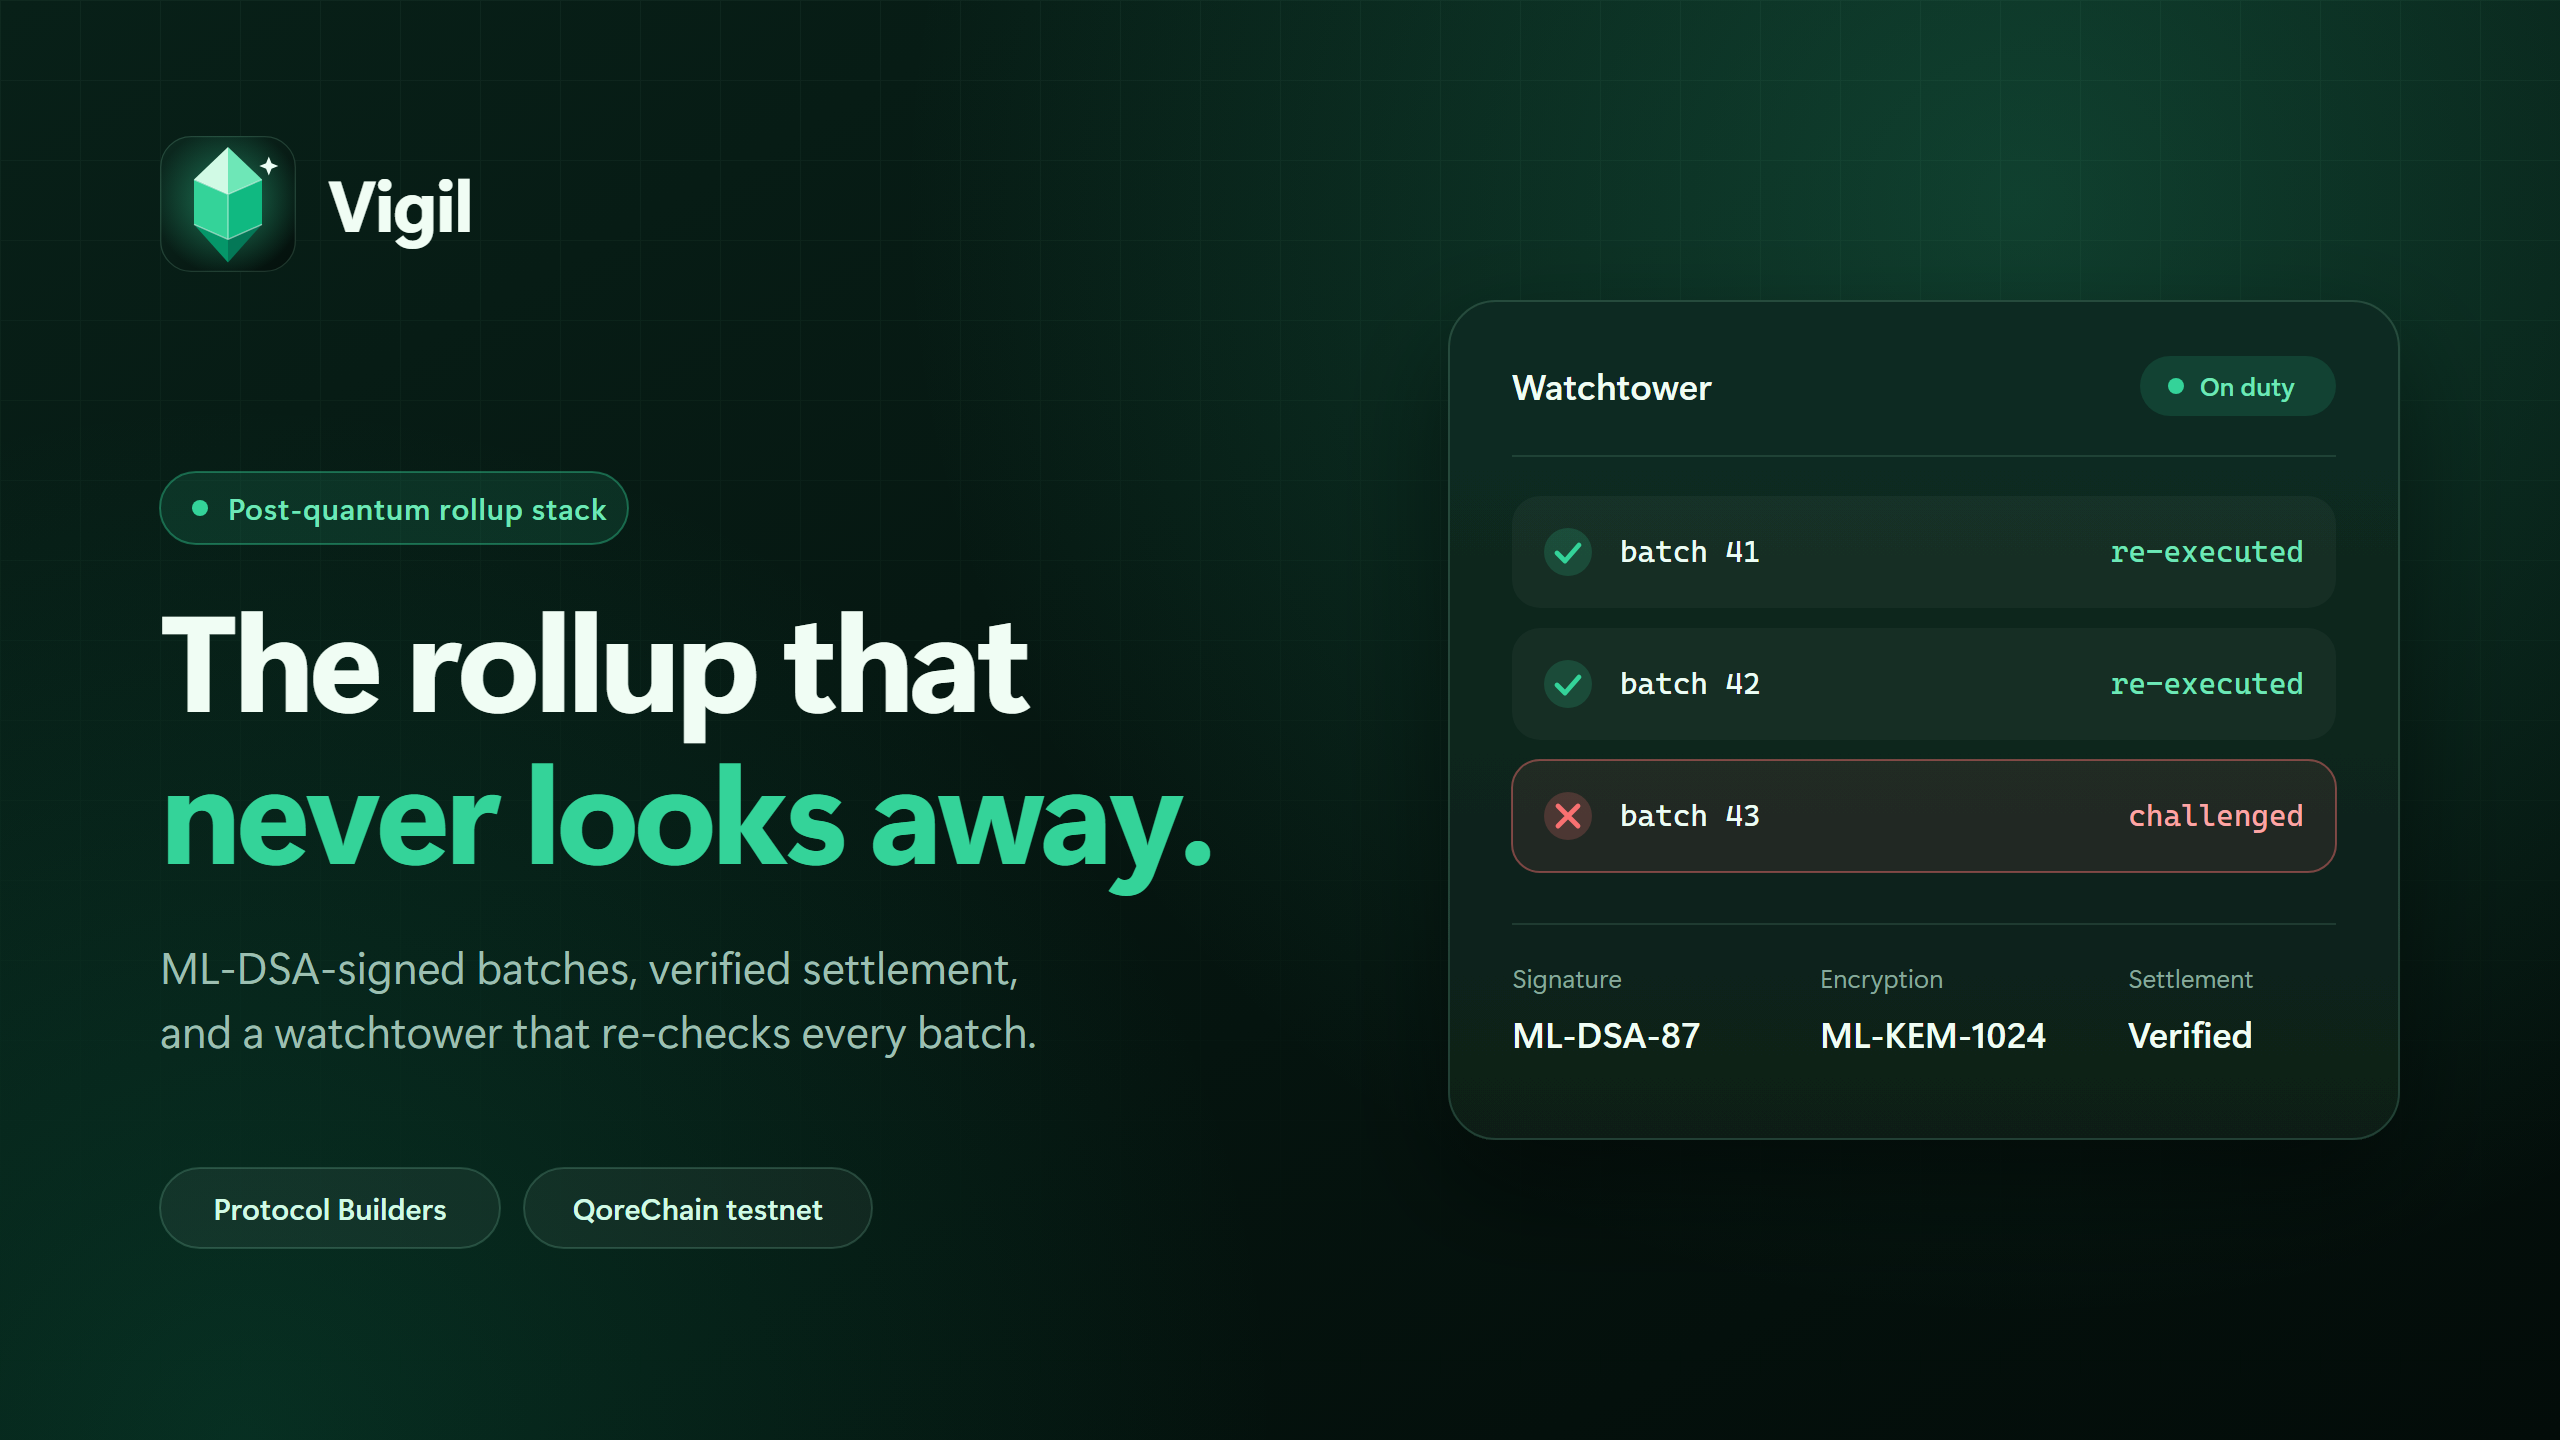
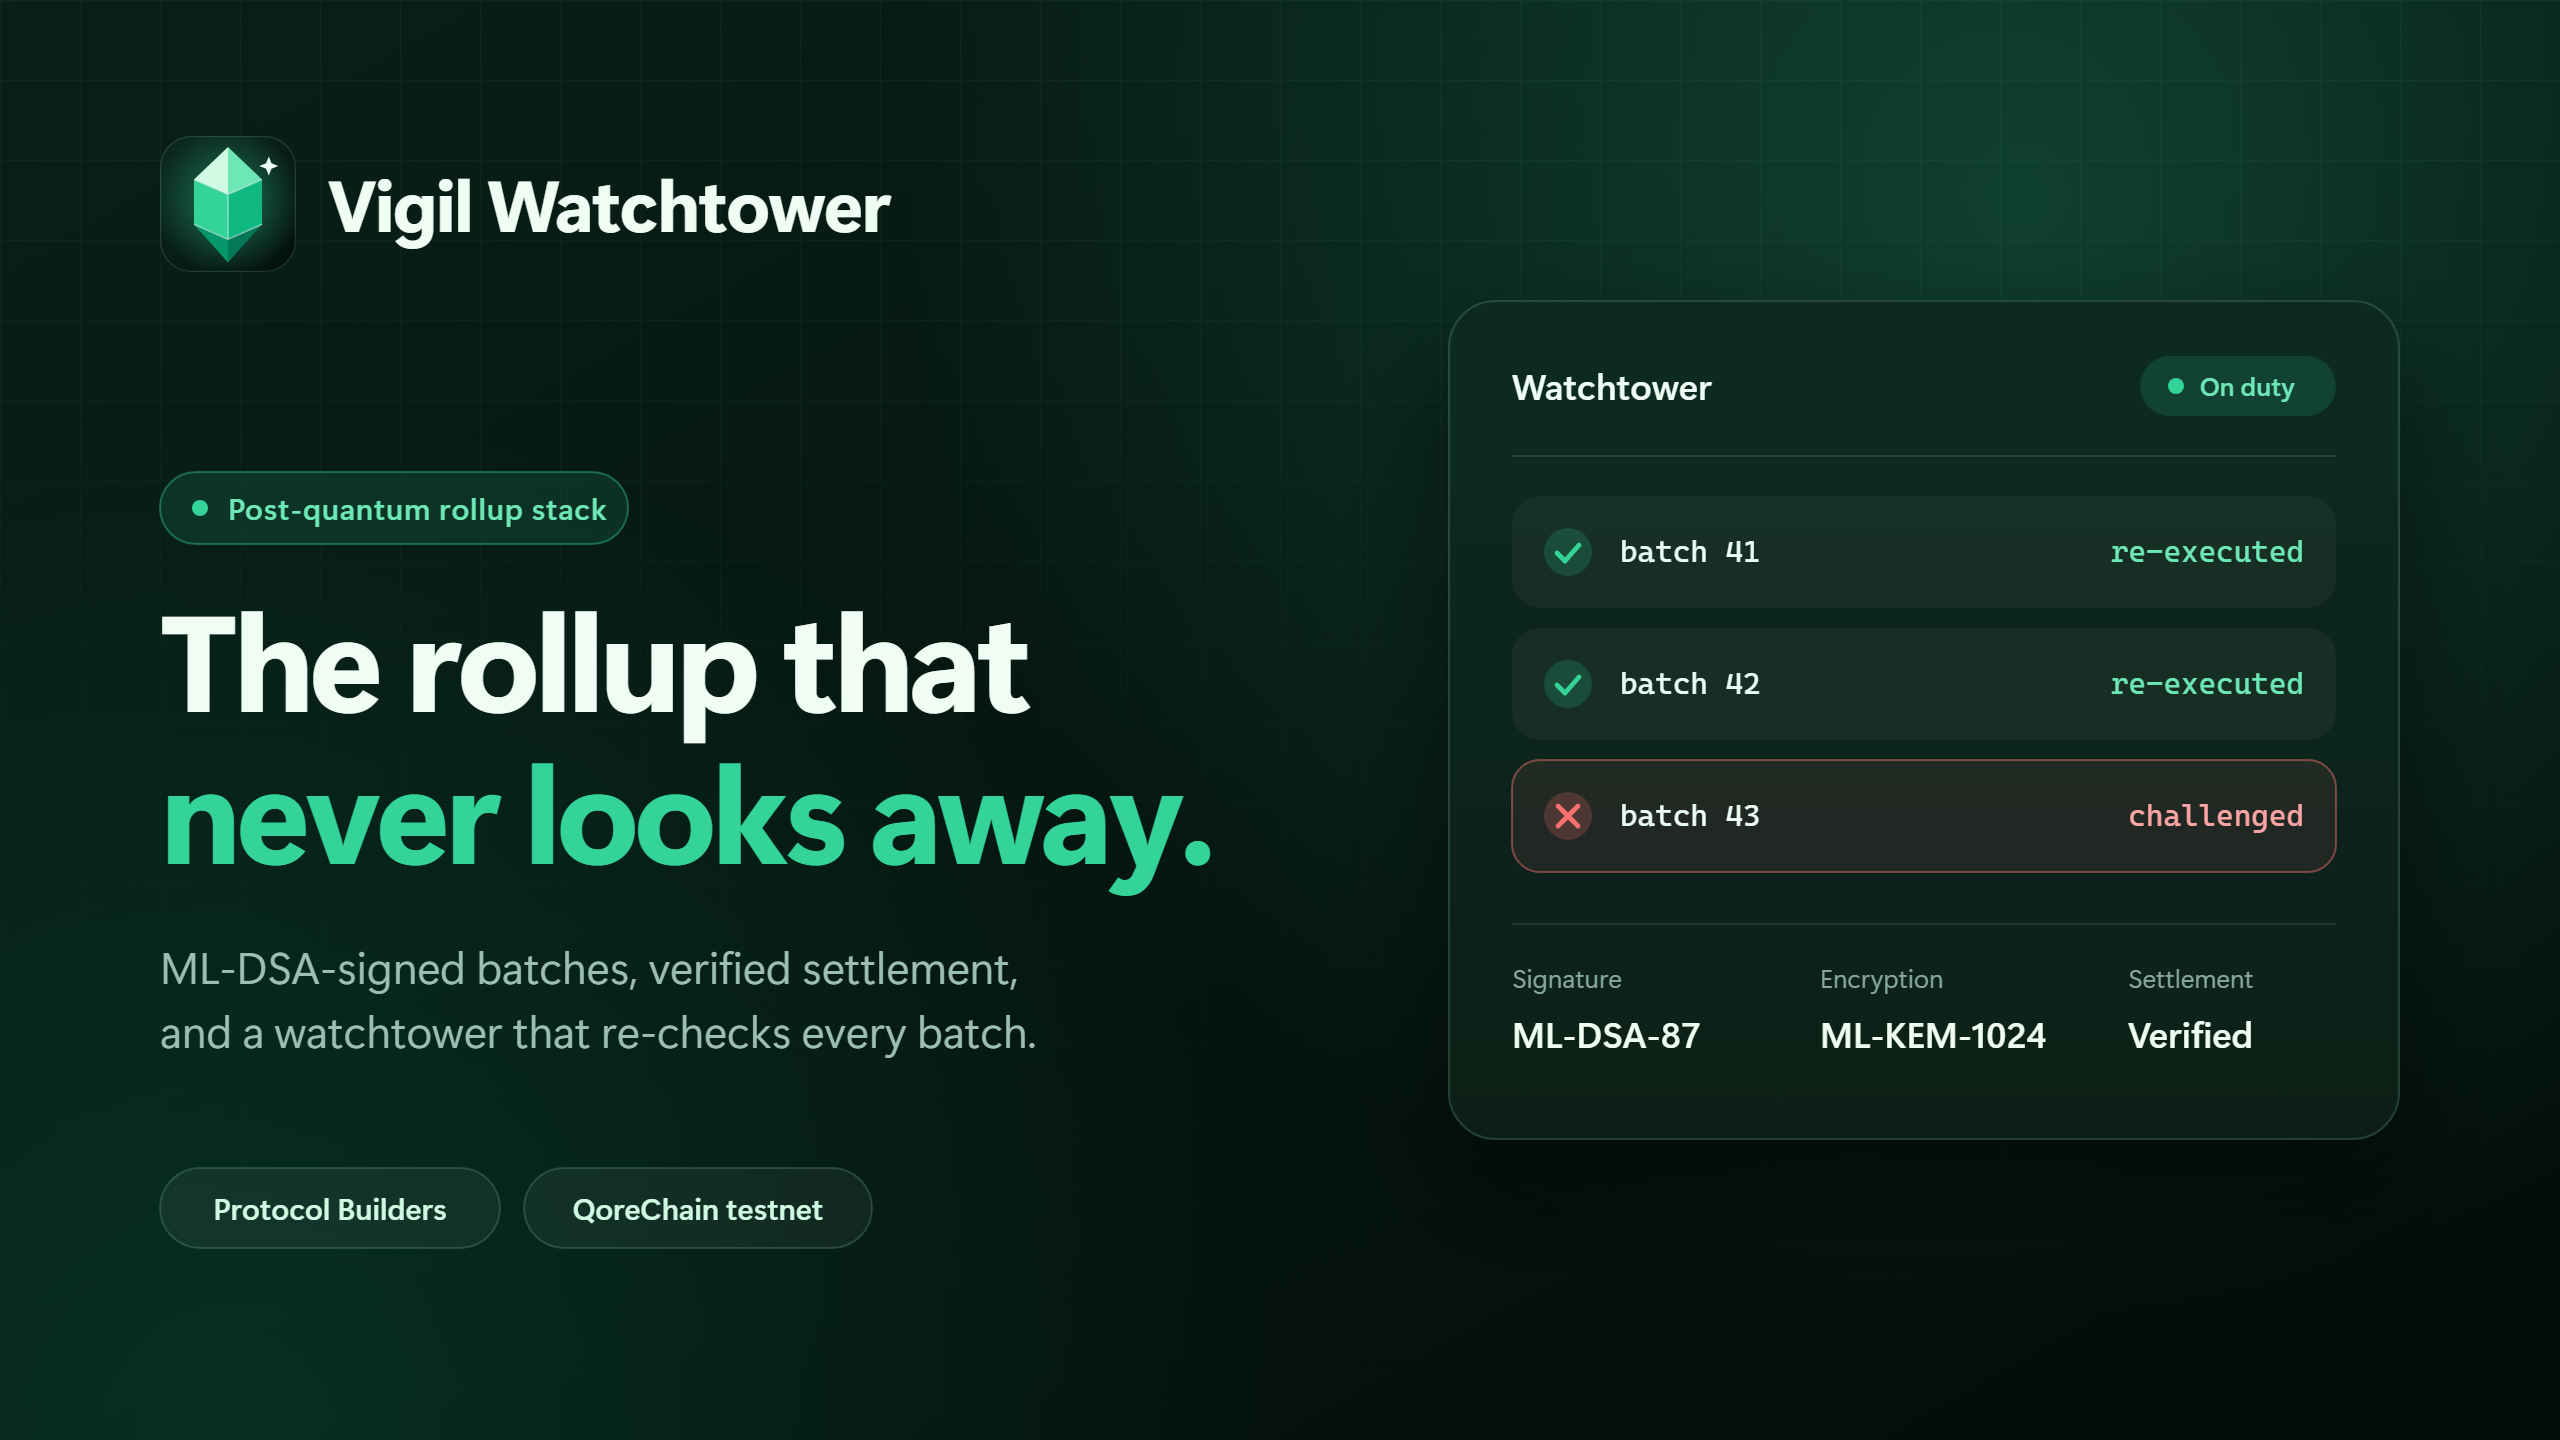
chore: re-export the brand PNGs and update the demo scenes
cover.png and logo.png still showed the old name; both are exported
again from their SVGs. The demo scene list now shows the audit of other
rollups, SettlementGate and the IBC exit, and the use cases, sends one
transfer instead of two, and stays under three minutes. Audit cards carry
their status as a class, and the use-cases page names the right memo
amount. The judges page has the current test counts.

Changed region(s): [[0.1875, 0.125, 0.3438, 0.1875]]

diff --git a/apps/web/learn.js b/apps/web/learn.js
@@ -198,7 +198,7 @@ export function learnView({ el, pill, latestBatch }) {
           "Payments with a private note",
           "people paying each other on the rollup who need to say what a payment is for",
           "A transfer can carry a memo sealed with ML-KEM-1024 to the key the recipient published on QoreChain, and bound to that transfer. Amounts stay public; the note is readable only by the recipient, now and after quantum computers arrive.",
-          "a recipient key, a sealed memo bound to a 1.5 QOR transfer, and the red-team replay refusing a changed or moved memo.",
+          "a recipient key, a sealed memo bound to a 0.25 QOR transfer, and the red-team replay refusing a changed or moved memo.",
         ),
         useCase(
           "A watchtower for rollups you do not run",

diff --git a/apps/web/rollups.js b/apps/web/rollups.js
@@ -28,7 +28,7 @@ export function rollupsView({ el, pill, api, ago, short }) {
 
   const row = (audit) => {
     const [tone, label] = STATUS[audit.status] ?? ["plain", audit.status];
-    return el("article", { className: "proof-card" }, [
+    return el("article", { className: `proof-card status-${audit.status}` }, [
       el("div", { className: "proof-top" }, [pill(tone, label)]),
       el("h2", { className: "mono", text: audit.rollupId }),
       el("p", {

diff --git a/docs/JUDGES.md b/docs/JUDGES.md
@@ -57,19 +57,29 @@ encodings. Vigil adds:
 - Private memos bound to transfers.
 - A monitor of QoreChain itself, which found mainnet's block time at 4.78 s against a documented
   3.1 s.
-- A web app and operator console.
+- A web app and operator console, with Sign In With QoreChain (ML-DSA-87 checked against the
+  registered key).
+- A read-only audit of every other `qledger-v1` rollup on the network, which proved that
+  `wicketgate-pay` batch 12 paid out 13 QOR on a forged withdrawals root.
+- Receipt recording through a smart account whose key can call only the two record functions, with
+  a scoped EVM window as the fallback.
+- `SettlementGate`, an example contract that pays only after a batch has settled.
+- One-command checks from a fresh clone with no key: `verify:proof`, `metrics`, `redteam`.
 
 ## Quality
 
-- 159 TypeScript tests and 19 contract tests, including a golden test that replays a live rollup's
-  public data and reproduces the state roots the chain finalized.
-- A 134-check browser test of the web app in light and dark themes and at phone width, including a
-  real transfer.
+- 230 TypeScript tests, 19 contract tests and 10 tests of the SettlementGate example (2 of them
+  against the real `VigilReceipts` on a testnet fork), including a golden test that replays a live
+  rollup's public data and reproduces the state roots the chain finalized.
+- A 170-check browser test of the web app in light and dark themes and at phone width, including
+  Sign In With QoreChain through the browser.
+- `pnpm redteam`: ten attacks on live data, each refused by a named check with a passing control.
 - Two independent reviews (contract and services). Their findings are fixed or documented in the
   [threat model](THREAT_MODEL.md).
 
 ## Videos
 
-- `media/vigil-demo.mp4`: the demo, 2.5 minutes, with real testnet transactions and the fraud catch.
+- `media/vigil-demo.mp4`: the demo, 2 minutes 48 seconds, with a real testnet transfer, the fraud
+  catch, the audit of other rollups, SettlementGate and the IBC exit.
 - `media/vigil-overview.mp4`: the concept in one minute.
 - `media/vigil-security.mp4`: the forged batch 18 stopped by the watchtower, step by step.

diff --git a/scripts/video/README.md b/scripts/video/README.md
@@ -6,11 +6,11 @@
 node --env-file=.env scripts/video/record.mjs overview http://127.0.0.1:8090
 ```
 
-| Scene list | Output                     | Content                                                                     |
-| ---------- | -------------------------- | --------------------------------------------------------------------------- |
-| `overview` | `media/vigil-overview.mp4` | The concept in about a minute                                               |
-| `demo`     | `media/vigil-demo.mp4`     | The full demo, under three minutes. Sends two 0.01 QOR testnet transactions |
-| `security` | `media/vigil-security.mp4` | How a forged batch is caught                                                |
+| Scene list | Output                     | Content                                                                    |
+| ---------- | -------------------------- | -------------------------------------------------------------------------- |
+| `overview` | `media/vigil-overview.mp4` | The concept in about a minute                                              |
+| `demo`     | `media/vigil-demo.mp4`     | The full demo, under three minutes. Sends one 0.01 QOR testnet transaction |
+| `security` | `media/vigil-security.mp4` | How a forged batch is caught                                               |
 
 It drives a headless Chrome over the DevTools protocol at 1440×810, captures the screen, speaks
 each scene's narration with a built-in Windows voice (`narrate.ps1`), and joins the scenes into an
